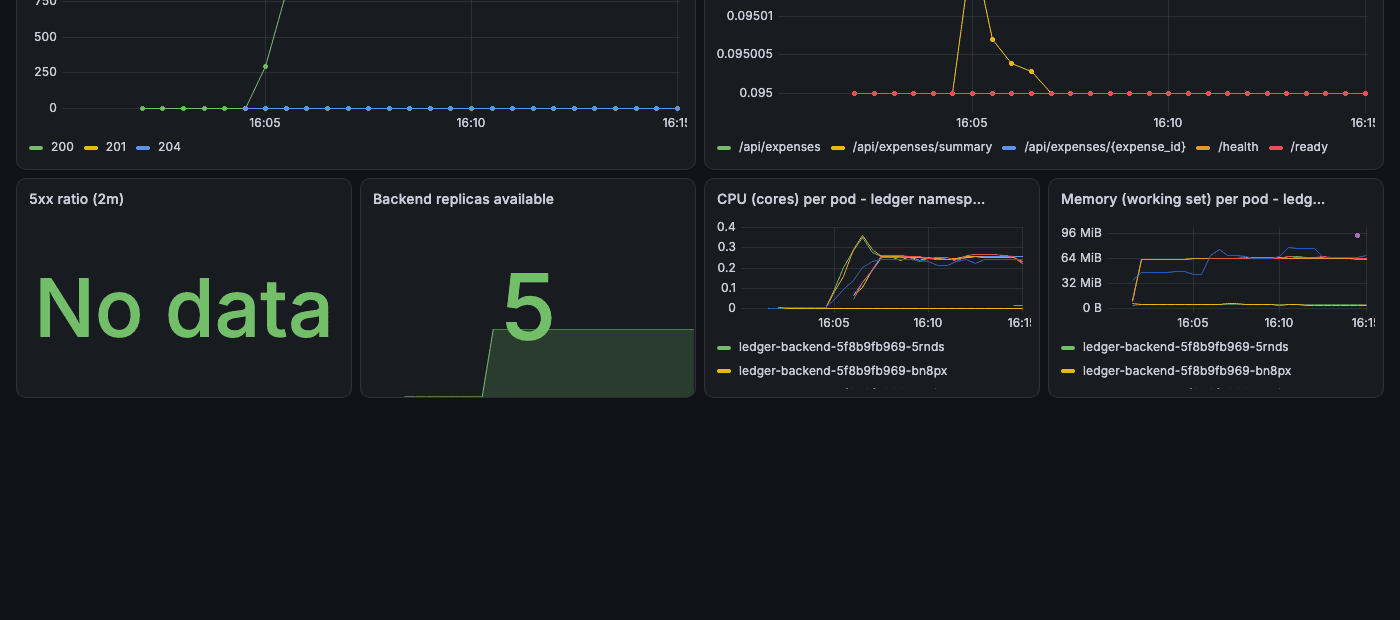
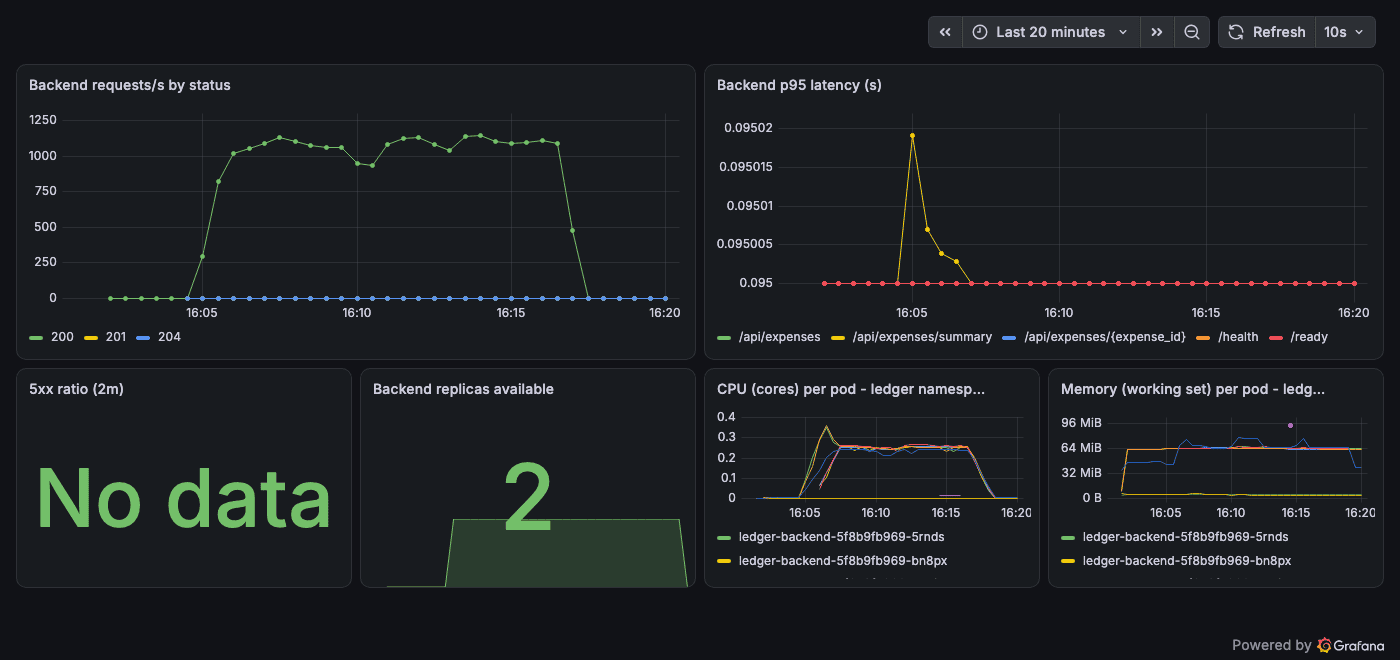
Docs: README with the end-to-end evidence and screenshots

diff --git a/README.md b/README.md
@@ -324,8 +324,8 @@ Fresh data was entered through the Ingress with curl, and the page below was loa
 
 `kubectl get hpa` at idle, then four busybox pods hammering `/api/expenses/summary`
 (`scripts/load-test.sh` does the same from outside). CPU went from 3 % to 278 % of the request and the
-HPA scaled the backend from 2 to 5 replicas (its maximum) within a minute; after the load was removed it
-waited out the 5-minute stabilisation window and scaled back down:
+HPA scaled the backend from 2 to 5 replicas (its maximum) within a minute; a few minutes after the load
+was removed (CPU back at 2 %, stabilisation window elapsed) it scaled back down to 2:
 
 ![HPA scaling](docs/screenshots/hpa-scale-up-down-terminal.png)
 
@@ -386,9 +386,15 @@ set to `null` explicitly — my first attempt that forgot this still had `<none>
 
 # 11. Final demo — a change travels from commit to cluster
 
-![demo](docs/screenshots/demo-change-commit-pipeline-rollout-terminal.png)
+The closing demonstration: a small application change (new tagline on the dashboard, app version
+1.1.0), committed and pushed. The pipeline runs all three jobs, the images get the new commit's SHA as
+their tag, Helm rolls the release to revision 2 with zero downtime (`maxUnavailable: 0`), and the
+change is visible through the Ingress. In the cluster the API reports the commit SHA as its version,
+because the chart sets `APP_VERSION` to the image tag — one more way to see exactly what is running.
 
-![demo UI](docs/screenshots/demo-ui-after-rollout-browser.png)
+![commit → pipeline → rollout](docs/screenshots/demo-change-commit-pipeline-rollout-terminal.png)
+
+![UI after the rollout](docs/screenshots/demo-ui-after-rollout-browser.png)
 
 ---
 
